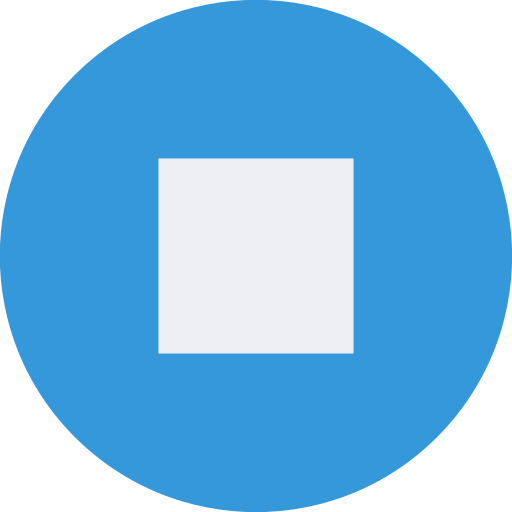
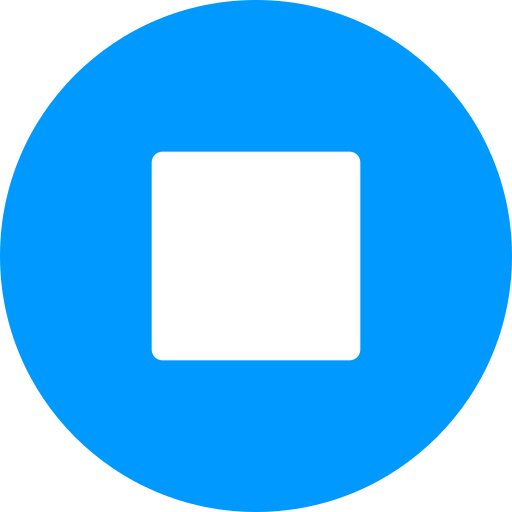
changed css

diff --git a/server/server.js b/server/server.js
@@ -9,25 +9,33 @@ const port = 3000;
 // Enable CORS for all routes
 app.use(cors());
 
-app.use(bodyParser.raw({ type: 'audio/wav', limit: '50mb' }));
+app.use(bodyParser.raw({ type: 'audio/wav', limit: '25mb' }));
 
 app.post('/transcribe', async (req, res) => {
     try {
-        console.log('Received request:', req.headers);
+        //console.log('Received request:', req.headers);
+
+        // Log the audio data to check if it's received correctly
+        console.log('Received audio data:', req.body);
+        console.log('Received audio data new:', req.body.toString());
+        console.log('Received content type:', req.headers['content-type']);
+        console.log('Received content type body:', req.body['content-type']);
+
         
         // Assuming you have the OpenAI API key stored in a variable named OPENAI_API_KEY
-        const apiKey = 'API_KEY_HERE'; 
+        const apiKey = ''; 
         const audioData = req.body;
 
-        const response = await fetch('https://api.openai.com/v1/audio/translations', {
+        const response = await fetch('https://api.openai.com/v1/audio/transcriptions', {
             method: 'POST',
             headers: {
-                'Content-Type': 'application/json',
+                'Content-Type': 'multipart/form-data',
                 'Authorization': `Bearer ${apiKey}`,
             },
             body: JSON.stringify({
                 model: 'whisper-1',
-                audio: audioData.toString('base64'),
+                response_format: 'text',
+                file: audioData,
             }),
         });
 
@@ -38,8 +46,16 @@ app.post('/transcribe', async (req, res) => {
         const data = await response.json();
         console.log('OpenAI API response:', data);
         res.json(data);
+
     } catch (error) {
         console.error('Error:', error);
+
+        if (error.response) {
+            console.error('API Response:', error.response.status, error.response.statusText);
+            const responseBody = await error.response.text();
+            console.error('Response Body:', responseBody);
+        }
+
         res.status(500).json({ error: 'Internal Server Error' });
     }
 });

diff --git a/styles.css b/styles.css
@@ -95,7 +95,7 @@ a.link:hover {
   left: 50%;
   transform: translate(-50%, -50%);
   padding: 20px;
-  background-color: #3498db;
+  background-color: #0098fe84;
   color: #fff;
   border-radius: 10px;
   box-shadow: 0 4px 8px rgba(0, 0, 0, 0.1);
@@ -132,8 +132,8 @@ a.link:hover {
   top: 10px;
   right: 0%;
   transform: translateX(-50%);
-  border: 1px solid #ffffff;
-  border-radius: 50%;
+  /* border: 1px solid #ffffff;
+  border-radius: 50%;*/
 }
 
 .wave-canvas {
